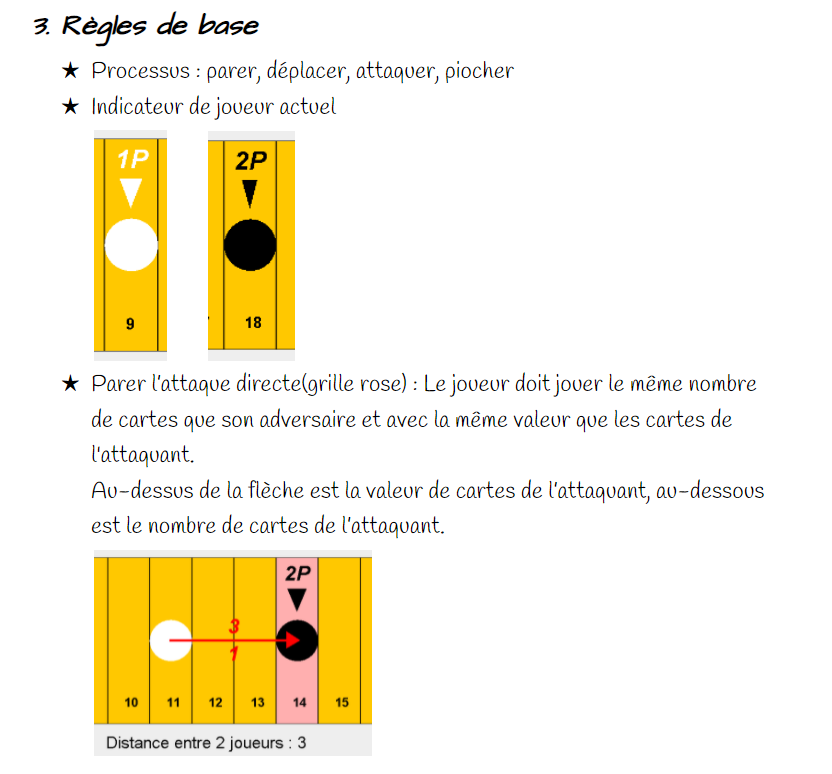
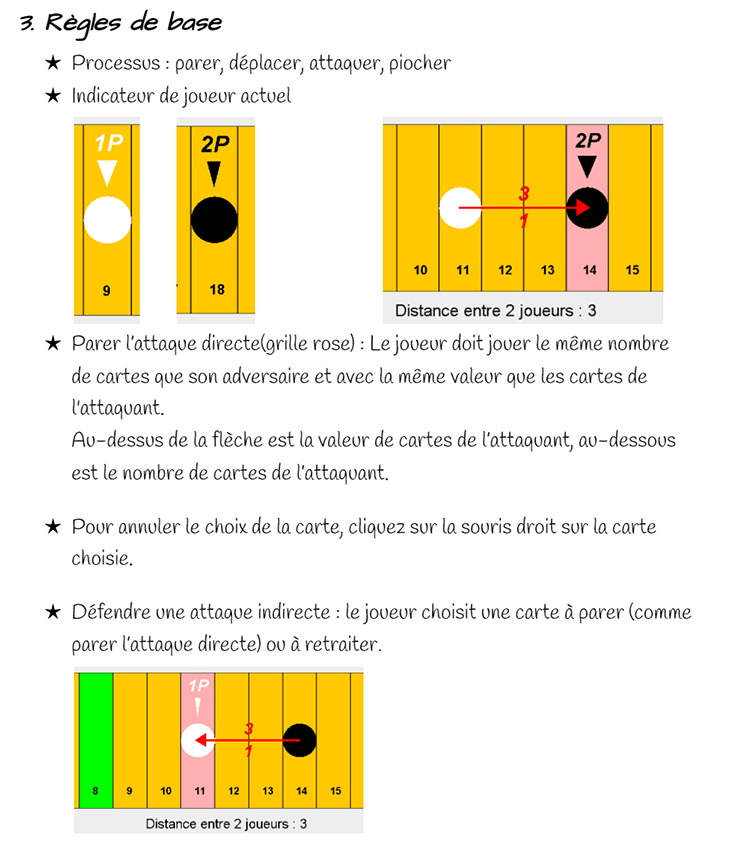
Refaire les images regles et corriger la bouton annuler tour

Changed region(s): [[0.0301, 0.0, 0.9644, 0.9922]]

diff --git a/EnGarde/src/controlleur/ControlCenter.java b/EnGarde/src/controlleur/ControlCenter.java
@@ -402,27 +402,33 @@ public class ControlCenter implements Observateur{
 		if(this.epg.hist.listAction.size() == 0) {
 			System.out.println("There is no more round to recover.");
 		}else {
-			Action lastAction = this.epg.hist.removeLastAction();
-			String lastActions[] = lastAction.getActionString().split(",");
-			this.returnCardToPool(lastActions[3]);
-			this.resetAttack(lastActions[2]);
-			this.resetMove(lastActions[1]);
-			this.resetParry(lastActions[0]);
-			Attack attBL;
-			if(this.epg.hist.listAction.size() != 0) {
-				Action actBeforeLast = this.epg.hist.listAction.get(this.epg.hist.listAction.size() - 1);
-				String actionsBL[] = actBeforeLast.getActionString().split(",");
-				attBL = this.getAttackBeforeLast(actionsBL[2]);
-			}else attBL = new Attack(AttackType.NONE, null, 0);
-			this.epg.changetTour();
-			this.pg.setWaitStatus(0);
-			this.pg.initialiseSelected();
-			this.pg.setDirectionDeplace(0);
-			this.epg.currentAction.clear();
+			if(this.epg.getIAType() != 0) annulerRoundProcedure();
+			Attack attBL = annulerRoundProcedure();
 			this.epg.roundStart(attBL);
 			this.interSwing.repaintAll();
 		}
 
+	}
+	
+	public Attack annulerRoundProcedure() {
+		Action lastAction = this.epg.hist.removeLastAction();
+		String lastActions[] = lastAction.getActionString().split(",");
+		this.returnCardToPool(lastActions[3]);
+		this.resetAttack(lastActions[2]);
+		this.resetMove(lastActions[1]);
+		this.resetParry(lastActions[0]);
+		Attack attBL;
+		if(this.epg.hist.listAction.size() != 0) {
+			Action actBeforeLast = this.epg.hist.listAction.get(this.epg.hist.listAction.size() - 1);
+			String actionsBL[] = actBeforeLast.getActionString().split(",");
+			attBL = this.getAttackBeforeLast(actionsBL[2]);
+		}else attBL = new Attack(AttackType.NONE, null, 0);
+		this.epg.changetTour();
+		this.pg.setWaitStatus(0);
+		this.pg.initialiseSelected();
+		this.pg.setDirectionDeplace(0);
+		this.epg.currentAction.clear();
+		return attBL;
 	}
 
 	// Prendre des carte de joueur et le remettre au pile

diff --git a/EnGarde/src/vue/RegleInterface.java b/EnGarde/src/vue/RegleInterface.java
@@ -47,7 +47,7 @@ public class RegleInterface implements Runnable{
 		JLabel picLabel = new JLabel(new ImageIcon(bi[0]));
 		picLabel.setAlignmentX(Component.LEFT_ALIGNMENT);
 		
-		this.label = new JLabel((int)(this.currentImageNB + 1) + " / 5");
+		this.label = new JLabel((int)(this.currentImageNB + 1) + " / " + bi.length);
 		label.setAlignmentX(Component.CENTER_ALIGNMENT);
 		
 		this.prev = new JButton("Précedent");
@@ -60,7 +60,7 @@ public class RegleInterface implements Runnable{
 				if(currentImageNB != 0) {
 					currentImageNB--;
 					picLabel.setIcon(new ImageIcon(bi[currentImageNB]));
-					label.setText((currentImageNB + 1) + " / 5");
+					label.setText((currentImageNB + 1) + " / " + bi.length);
 				}
 			}
 		});
@@ -73,10 +73,10 @@ public class RegleInterface implements Runnable{
 		next.addActionListener(new ActionListener() {
 			@Override
 			public void actionPerformed(ActionEvent e) {
-				if(currentImageNB != 4) {
+				if(currentImageNB != 5) {
 					currentImageNB++;
 					picLabel.setIcon(new ImageIcon(bi[currentImageNB]));
-					label.setText((currentImageNB + 1) + " / 5");
+					label.setText((currentImageNB + 1) + " / " + bi.length);
 				}
 			}
 		});
@@ -115,7 +115,7 @@ public class RegleInterface implements Runnable{
 		this.frame.add(picLabel, BorderLayout.CENTER);
 		this.frame.add(boiteInfo, BorderLayout.SOUTH);
 		
-		frame.setSize(900, 900);
+		frame.setSize(950, 950);
 		frame.setBackground(Color.WHITE);
 		
 	}

diff --git a/EnGarde/src/modele/ExecPlayground.java b/EnGarde/src/modele/ExecPlayground.java
@@ -14,7 +14,7 @@ public class ExecPlayground extends Observable{
 	
 	public int getLastCardPlayer;
 	
-	public int IAType;
+	public int IAType; // 0-Sans IA, 1-IA Aleatoire, 2-IA Proba, 3-IA Minmax
 	public int humanPlayer;
 	
 	public boolean gameStopped;
